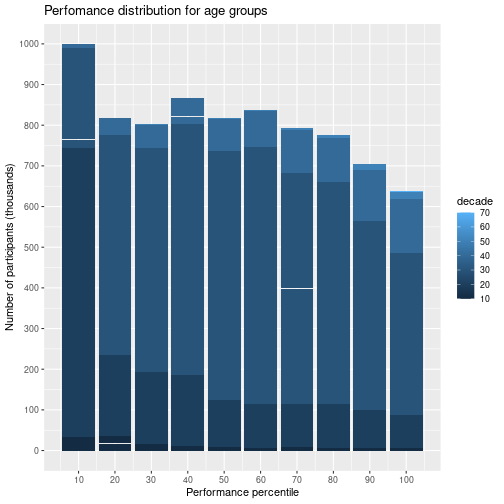
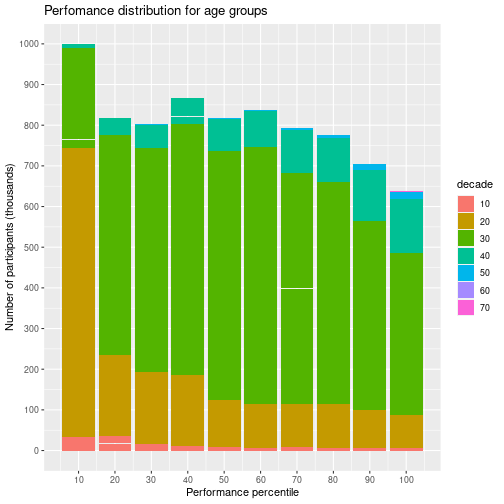
Fixed last figure

diff --git a/RLab3_CB.html b/RLab3_CB.html
@@ -353,6 +353,9 @@ df &lt;- df %&gt;%
     select( -age_percentile_group ) %&gt;%
     rename( age_percentile_group_count = n )
 
+df &lt;- df %&gt;%
+    mutate( decade = as.character(decade) )
+
 #
 ggplot(
     data = df,
@@ -370,7 +373,7 @@ ggplot(
     ylab(&quot;Number of participants (thousands)&quot;) +
     ggtitle(&quot;Perfomance distribution for age groups&quot;)
 </code></pre>
[2 lines of base64/hex data omitted]
 
 </body>
 

diff --git a/RLab3_CB.md b/RLab3_CB.md
@@ -199,6 +199,9 @@ df <- df %>%
     select( -age_percentile_group ) %>%
     rename( age_percentile_group_count = n )
 
+df <- df %>%
+    mutate( decade = as.character(decade) )
+
 #
 ggplot(
     data = df,
